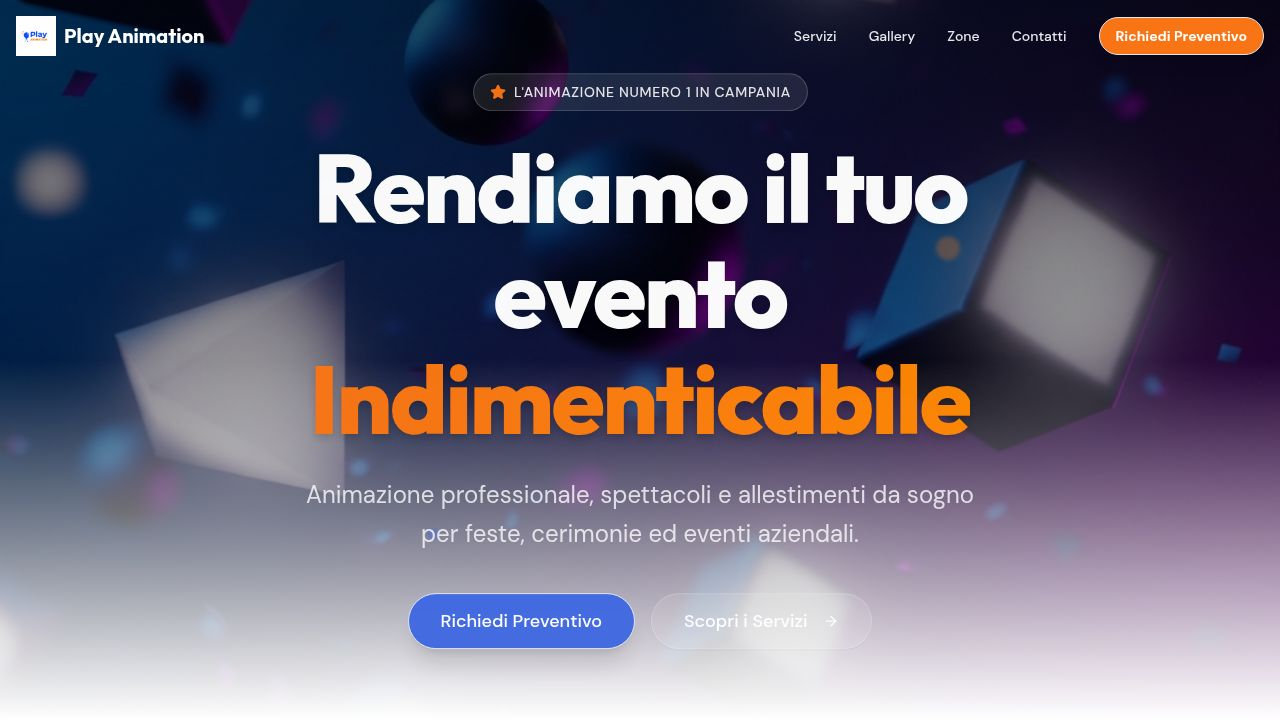
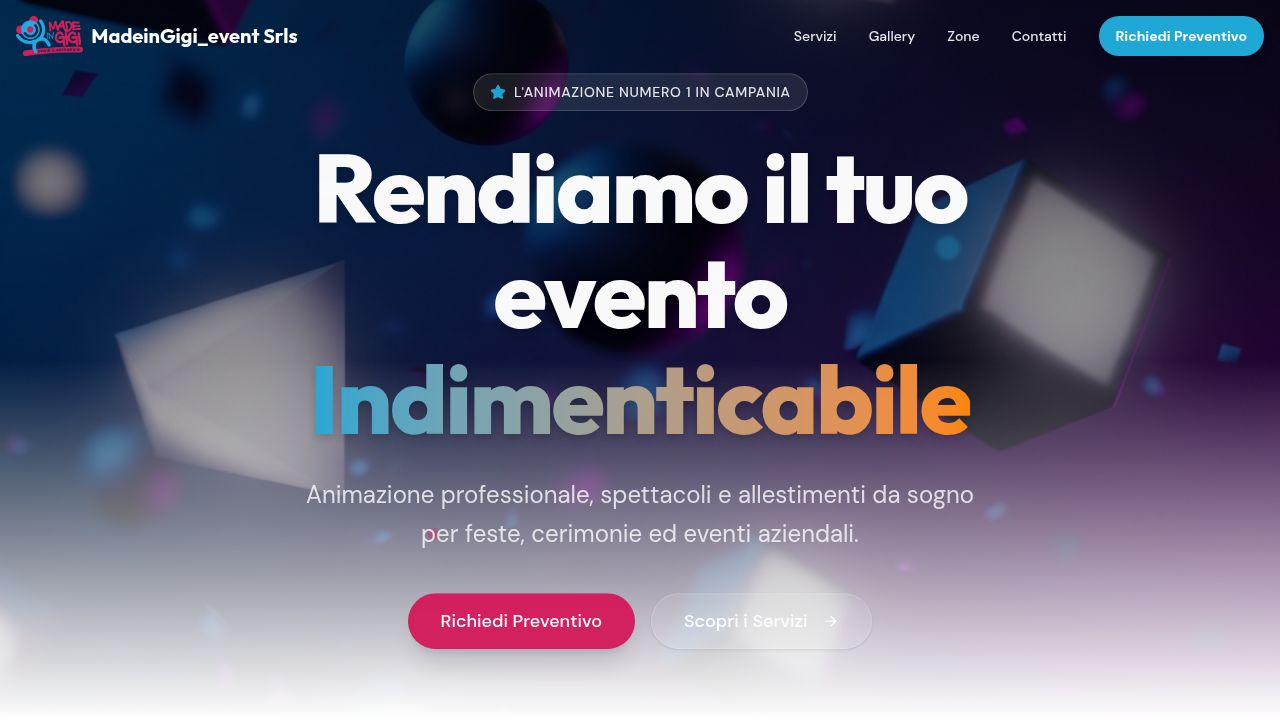
Update website styling to match new business branding
Update CSS variables for brand colors, button variants, and card styles to implement the new MadeinGigi branding.

Replit-Commit-Author: Agent
Replit-Commit-Session-Id: ba3c3085-c6ac-4e0f-a823-c37f311c097e
Replit-Commit-Checkpoint-Type: full_checkpoint
Replit-Commit-Event-Id: 2ab93b02-b11b-4153-9ed8-0f50547dcfc7
Replit-Commit-Screenshot-Url: https://storage.googleapis.com/screenshot-production-us-central1/e6ce68b2-488b-4698-84f9-7558e94eb2f1/ba3c3085-c6ac-4e0f-a823-c37f311c097e/kK74Q9x
Replit-Helium-Checkpoint-Created: true

diff --git a/client/src/components/ui/button.tsx b/client/src/components/ui/button.tsx
@@ -5,34 +5,27 @@ import { cva, type VariantProps } from "class-variance-authority"
 import { cn } from "@/lib/utils"
 
 const buttonVariants = cva(
-  "inline-flex items-center justify-center gap-2 whitespace-nowrap rounded-md text-sm font-medium transition-colors focus-visible:outline-none focus-visible:ring-1 focus-visible:ring-ring disabled:pointer-events-none disabled:opacity-50 [&_svg]:pointer-events-none [&_svg]:size-4 [&_svg]:shrink-0" +
-" hover-elevate active-elevate-2",
+  "inline-flex items-center justify-center gap-2 whitespace-nowrap rounded-md text-sm font-medium transition-all duration-300 focus-visible:outline-none focus-visible:ring-2 focus-visible:ring-ring focus-visible:ring-offset-2 disabled:pointer-events-none disabled:opacity-50 [&_svg]:pointer-events-none [&_svg]:size-4 [&_svg]:shrink-0 hover:scale-[1.02] active:scale-[0.98]",
   {
     variants: {
       variant: {
         default:
-           // @replit: no hover, and add primary border
-           "bg-primary text-primary-foreground border border-primary-border",
+           // @replit: added glow effect on hover
+           "bg-primary text-primary-foreground shadow-md hover:bg-primary/90 hover:shadow-primary/30 hover:shadow-lg border border-transparent",
         destructive:
-          "bg-destructive text-destructive-foreground shadow-sm border-destructive-border",
+          "bg-destructive text-destructive-foreground shadow-sm hover:bg-destructive/90",
         outline:
-          // @replit Shows the background color of whatever card / sidebar / accent background it is inside of.
-          // Inherits the current text color. Uses shadow-xs. no shadow on active
-          // No hover state
-          " border [border-color:var(--button-outline)] shadow-xs active:shadow-none ",
+          "border border-input bg-background shadow-sm hover:bg-accent hover:text-accent-foreground hover:border-accent",
         secondary:
-          // @replit border, no hover, no shadow, secondary border.
-          "border bg-secondary text-secondary-foreground border border-secondary-border ",
-        // @replit no hover, transparent border
-        ghost: "border border-transparent",
+          "bg-secondary text-secondary-foreground shadow-md hover:bg-secondary/90 hover:shadow-secondary/30 hover:shadow-lg",
+        ghost: "hover:bg-accent hover:text-accent-foreground",
         link: "text-primary underline-offset-4 hover:underline",
       },
       size: {
-        // @replit changed sizes
-        default: "min-h-9 px-4 py-2",
-        sm: "min-h-8 rounded-md px-3 text-xs",
-        lg: "min-h-10 rounded-md px-8",
-        icon: "h-9 w-9",
+        default: "h-10 px-4 py-2",
+        sm: "h-9 rounded-md px-3",
+        lg: "h-12 rounded-md px-8 text-base",
+        icon: "h-10 w-10",
       },
     },
     defaultVariants: {

diff --git a/client/src/index.css b/client/src/index.css
@@ -9,10 +9,9 @@
   --radius-lg: var(--radius);
   --radius-xl: calc(var(--radius) + 4px);
   
-  /* Brand Colors - Electric Blue & Vibrant Orange */
-  --color-brand-blue: hsl(225 73% 57%);
-  --color-brand-orange: hsl(25 95% 53%);
-  --color-brand-purple: hsl(265 83% 57%);
+  /* Brand Colors - MadeinGigi_event */
+  --color-brand-pink: hsl(339 76% 47%);
+  --color-brand-blue: hsl(195 75% 48%);
 
   --color-background: hsl(var(--background));
   --color-foreground: hsl(var(--foreground));
@@ -37,7 +36,7 @@
   --font-sans: 'DM Sans', sans-serif;
   --font-display: 'Outfit', sans-serif;
 
-  --radius: 0.75rem;
+  --radius: 1rem;
 }
 
 :root {
@@ -51,24 +50,24 @@
   --popover: 0 0% 100%;
   --popover-foreground: 222 47% 11%;
   
-  --primary: 225 73% 57%; /* Electric Blue */
-  --primary-foreground: 210 40% 98%;
+  --primary: 339 76% 47%; /* Logo Pink #D61B5B */
+  --primary-foreground: 0 0% 100%;
   
-  --secondary: 25 95% 53%; /* Vibrant Orange */
-  --secondary-foreground: 210 40% 98%;
+  --secondary: 195 75% 48%; /* Logo Blue #1FA8D7 */
+  --secondary-foreground: 0 0% 100%;
   
   --muted: 210 40% 96.1%;
   --muted-foreground: 215.4 16.3% 46.9%;
   
-  --accent: 265 83% 57%; /* Purple Accent */
-  --accent-foreground: 210 40% 98%;
+  --accent: 195 75% 95%; /* Very light blue for accent backgrounds */
+  --accent-foreground: 195 75% 48%;
   
   --destructive: 0 84.2% 60.2%;
   --destructive-foreground: 210 40% 98%;
   
   --border: 214.3 31.8% 91.4%;
   --input: 214.3 31.8% 91.4%;
-  --ring: 225 73% 57%;
+  --ring: 195 75% 48%; /* Focus ring matches secondary blue */
 }
 
 @layer base {

diff --git a/client/src/components/ui/card.tsx b/client/src/components/ui/card.tsx
@@ -9,7 +9,7 @@ const Card = React.forwardRef<
   <div
     ref={ref}
     className={cn(
-      "rounded-xl border bg-card text-card-foreground shadow",
+      "rounded-xl border border-primary/10 bg-card text-card-foreground shadow-sm transition-all duration-300 hover:shadow-xl hover:-translate-y-1 hover:border-primary/20",
       className
     )}
     {...props}
